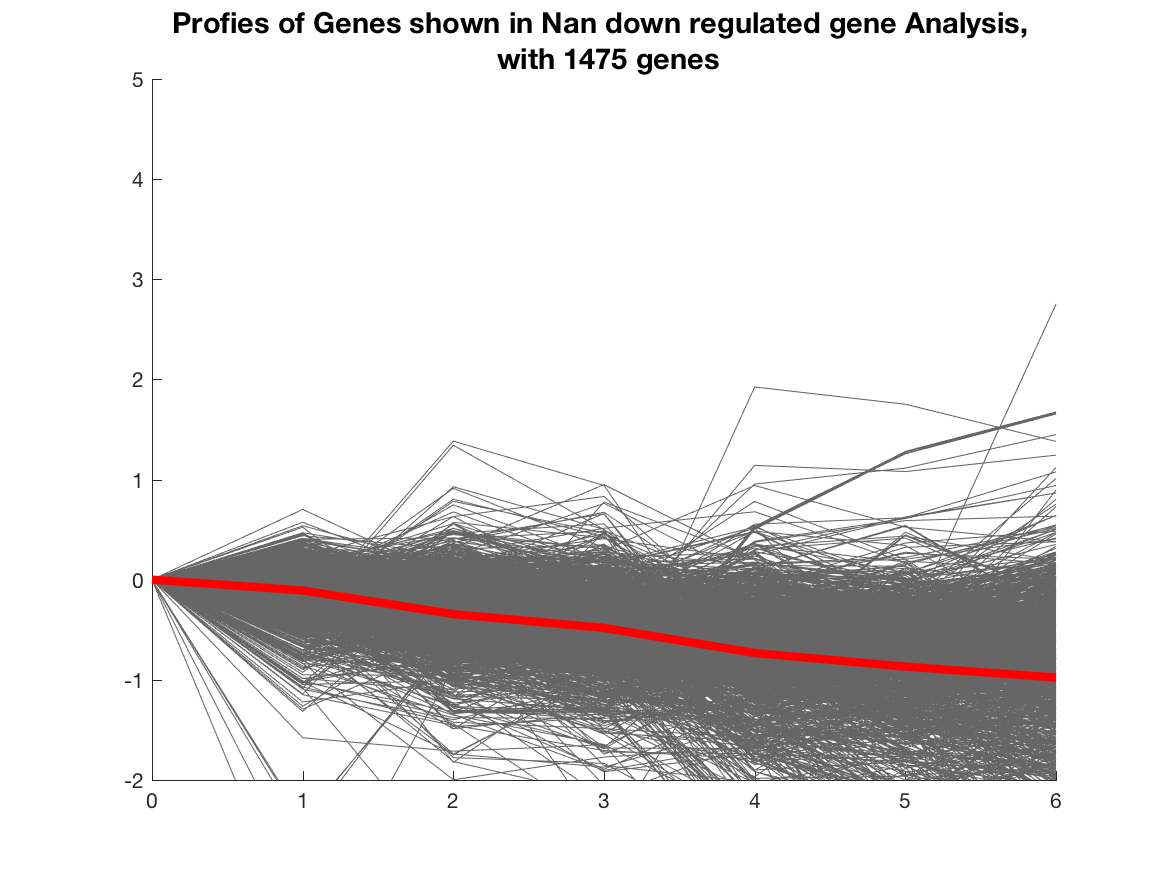
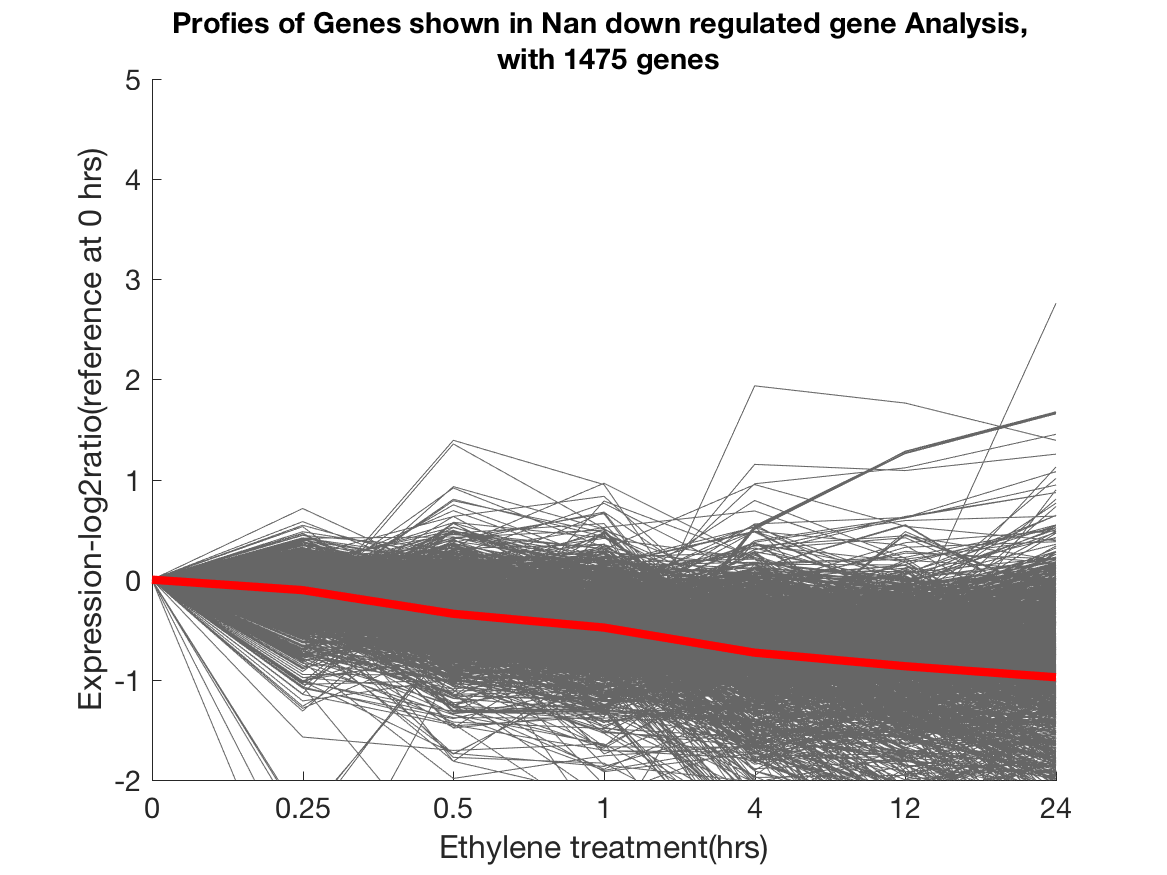
Plot

diff --git a/Process4_main.m b/Process4_main.m
@@ -3,28 +3,28 @@
 %%%%%%%%%%%%%%%%%%%%%%%%%%%%%%%%%%%%%%%%%%%%%%
 % Figure1
 [ fig, ngenes ] = plotTable( ...
-    'Profies-Genes-ANan-Gene-list-DEG-down-regulated-Not-all-down.csv' );
+    'Profies-Genes-ANan-Gene-list-DEG-down-regulated-Not-all-down.csv', 0 );
 title(sprintf('Profies of Genes shown in Nan down regulated gene list but Not Chang, \n with %d genes',ngenes),...
     'FontSize',14)
 print(fig,'./Figures/fig1','-dpng');
 
 % Figure2
 [ fig, ngenes ] = plotTable( ...
-    'Profiles-ANan-up-regulated.csv' );
+    'Profiles-ANan-up-regulated.csv', 0 );
 title(sprintf('Profies of Genes shown in Nan up regulated gene Analyisis, \n with %d genes',ngenes),...
     'FontSize',14)
 print(fig,'./Figures/fig2','-dpng');
 
 % Figure3
 [ fig, ngenes ] = plotTable( ...
-    'Profiles-ANan-down-regulated.csv' );
+    'Profiles-ANan-down-regulated.csv', 0 );
 title(sprintf('Profies of Genes shown in Nan down regulated gene Analysis, \n with %d genes',ngenes),...
     'FontSize',14)
 print(fig,'./Figures/fig3','-dpng');
 
 % Figure4
 [ fig, ngenes ] = plotTable( ...
-    'Profiles-Genes-ANan-Gene-list-DEG-up-regulated-Not-all-up.csv' );
+    'Profiles-Genes-ANan-Gene-list-DEG-up-regulated-Not-all-up.csv', 0 );
 title(sprintf('Profies of Genes shown in Nan up regulated gene list but Not Chang, \n with %d genes',ngenes),...
     'FontSize',14)
 print(fig,'./Figures/fig4','-dpng');
